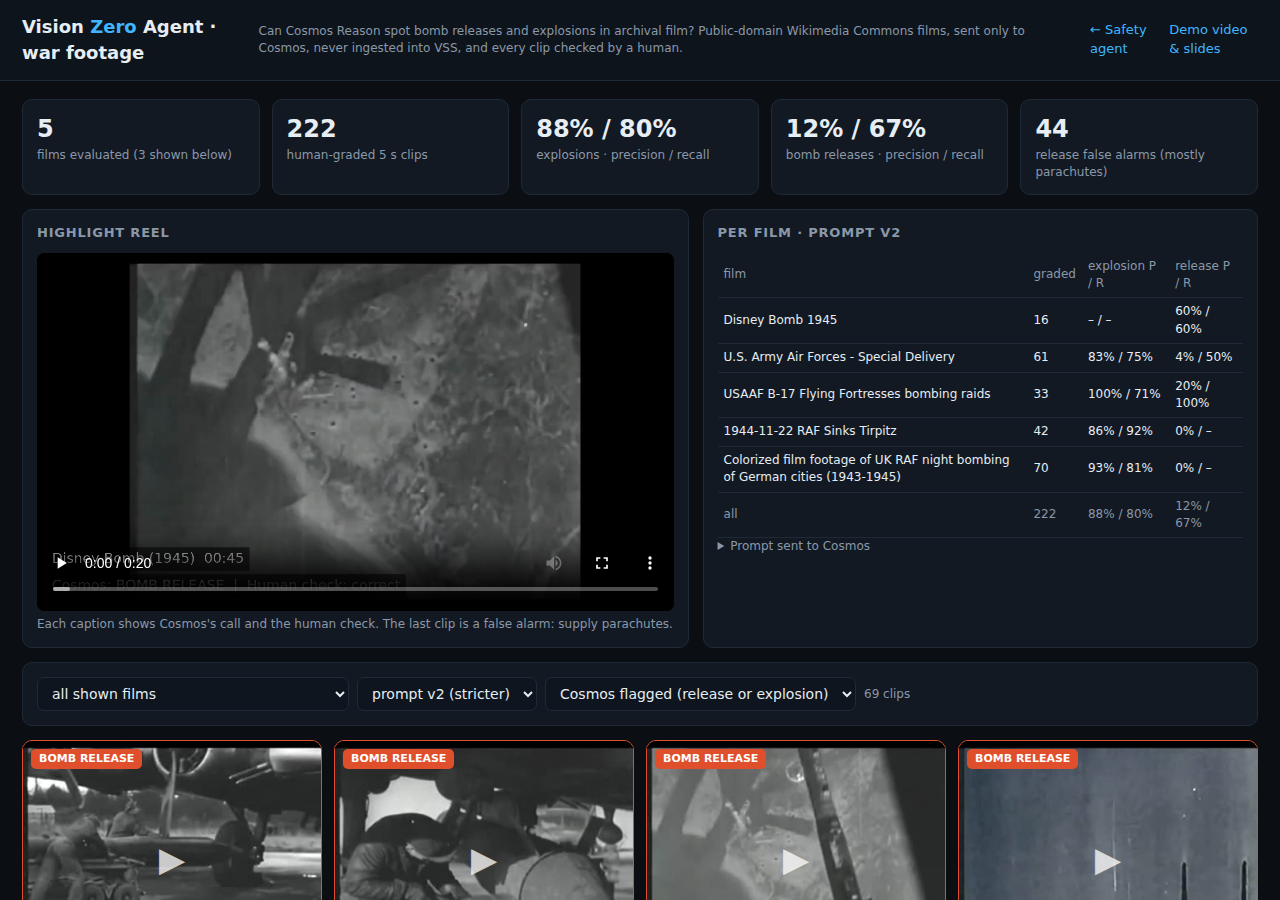
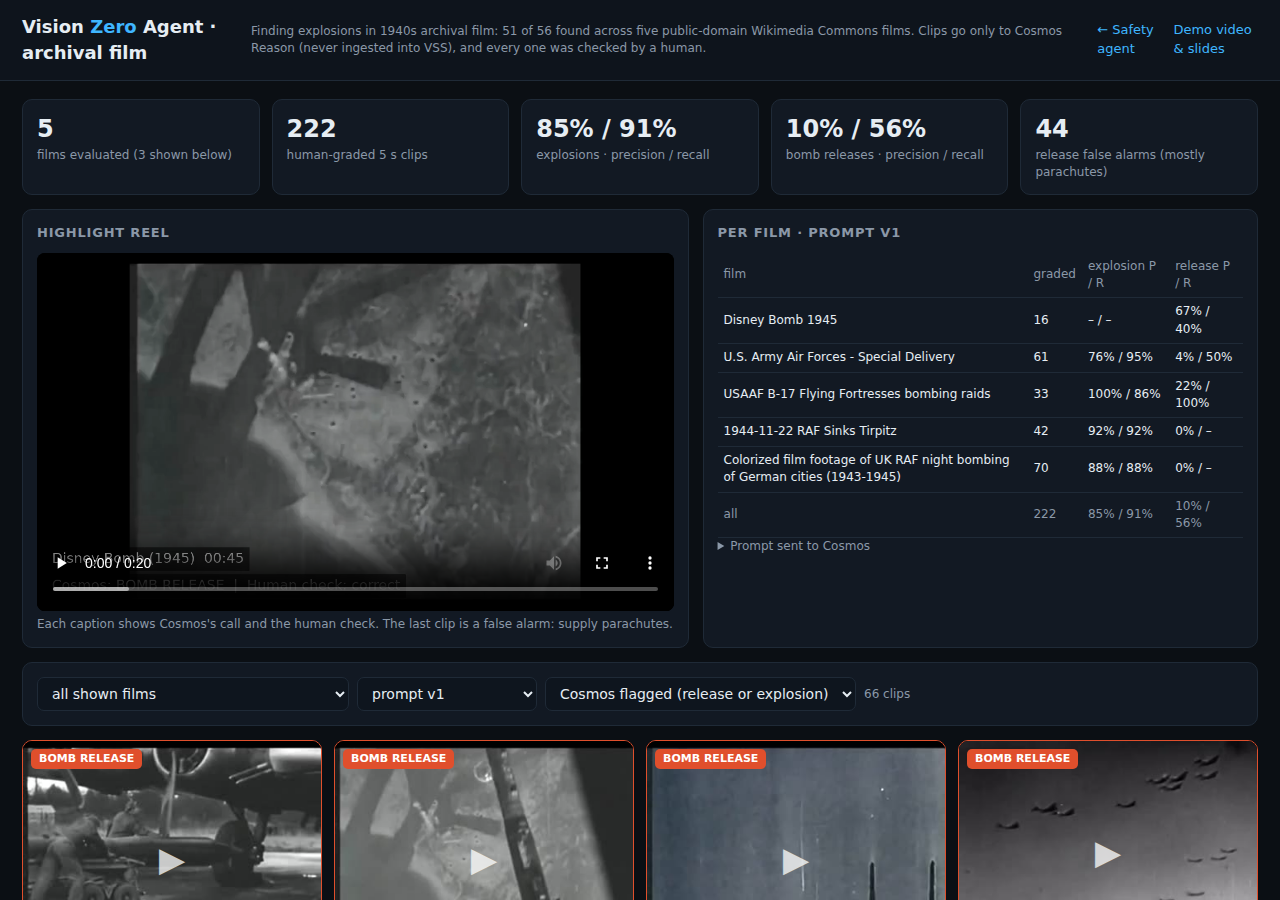
Lead with archival-film explosion detection; re-cut demo narration and scene order

diff --git a/demo/slides/slide.html b/demo/slides/slide.html
@@ -18,12 +18,12 @@
 
 <div class="s" id="01_title">
   <h1>Vision <b>Zero</b> Agent</h1>
-  <p class="lead">Finds safety incidents in hours of camera footage, and checks them on the video itself.</p>
+  <p class="lead">One video agent that finds the moments that matter in hours of footage, from archival film to live street and warehouse cameras, and checks every one on the video itself.</p>
   <div class="tag">VAST Builders Challenge · team-4</div>
 </div>
 
 <div class="s" id="02_problem">
-  <h2>Thousands of hours of video. <b>Nobody watches it.</b></h2>
+  <h2>Same agent, <b>live camera archives on VAST</b></h2>
   <div class="grid">
     <div class="box"><h3>3,537 clips · 13 cameras</h3><p>Indexed on VAST: Toronto dashcam, a New York cyclist's helmet camera, NYC and San Francisco street cameras, a highway, a neighborhood camera.</p></div>
     <div class="box"><h3>2 warehouse floors</h3><p>Forklifts, AGVs and humanoid robots sharing space with workers.</p></div>
@@ -36,19 +36,19 @@
   <h2>Measured, not guessed: <b>W&amp;B Weave + evaluation</b></h2>
   <table>
     <tr><th>Check (human frame review = ground truth)</th><th>Result</th></tr>
+    <tr><td>Archival film (5 films, 222 clips): explosions</td><td class="n">51 of 56 found · 85% precision</td></tr>
     <tr><td>Street clips: Cosmos risk vs. reviewer</td><td class="n">8 / 10 agree</td></tr>
     <tr><td>Warehouse clips (after the zero-humans consistency rule)</td><td class="n">6 / 6 agree</td></tr>
-    <tr><td>Archival war film (5 films, 222 clips): explosions</td><td class="n">85% precision · 91% recall</td></tr>
-    <tr><td>Archival war film: bomb release</td><td class="bad">10% precision (12% with stricter prompt)</td></tr>
+    <tr><td>Archival film: bomb release (known limit)</td><td class="bad">10% precision (12% with stricter prompt)</td></tr>
   </table>
   <p class="note">Every Cosmos Reason and LLM call is traced in Weave. Results logged as run "cosmos-reason-frame-checked-eval" in W&amp;B. Reviewed clips are spot checks, not a random sample.</p>
 </div>
 
 <div class="s" id="10_war">
-  <h2>Stress test: <b>public-domain archival war film</b></h2>
+  <h2>Archival film: <b>51 of 56 explosions found</b></h2>
   <div class="grid">
-    <div class="box"><h3>Explosions: reliable</h3><p>85% precision, 91% recall across B-17 raids, the RAF attack on the Tirpitz, RAF night bombing, the 1946 Bikini test and a 1945 bulletin.</p></div>
-    <div class="box"><h3>Bomb release: fooled</h3><p>10% precision. Parachutes, supply bundles and cargo drops are reported as bombs; a stricter prompt only reached 12%.</p></div>
+    <div class="box"><h3>Explosions: 91% recall · 85% precision</h3><p>222 hand-checked five-second clips from five public-domain films: B-17 raids, the RAF attack on the Tirpitz, RAF night bombing, the 1946 Bikini test and a 1945 bulletin.</p></div>
+    <div class="box"><h3>Known limit: bomb release</h3><p>Parachutes, supply bundles and cargo drops look like bombs at this resolution: 12% precision even with a stricter prompt. We show it, not hide it.</p></div>
   </div>
   <p class="note">Films from Wikimedia Commons, public domain. Sent to Cosmos directly for evaluation; not ingested into the VSS archive.</p>
 </div>
@@ -65,7 +65,7 @@
 
 <div class="s" id="12_close">
   <h1>Vision <b>Zero</b> Agent</h1>
-  <p class="lead">Fewer near misses, found before they become accidents.</p>
+  <p class="lead">Any camera, any archive. Every finding checked on the video, and every number measured.</p>
   <div class="tag">Thank you · team-4</div>
 </div>
 

diff --git a/app/war.html b/app/war.html
@@ -2,7 +2,7 @@
 <html lang="en">
 <head>
 <meta charset="utf-8">
-<title>Vision Zero Agent · war footage</title>
+<title>Vision Zero Agent · archival film</title>
 <link rel="icon" href="data:,">
 <meta name="viewport" content="width=device-width, initial-scale=1">
 <style>
@@ -55,8 +55,8 @@
 </head>
 <body>
 <header>
-  <h1>Vision <span>Zero</span> Agent · war footage</h1>
-  <div class="sub">Can Cosmos Reason spot bomb releases and explosions in archival film? Public-domain Wikimedia Commons films, sent only to Cosmos, never ingested into VSS, and every clip checked by a human.</div>
+  <h1>Vision <span>Zero</span> Agent · archival film</h1>
+  <div class="sub">Finding explosions in 1940s archival film: 51 of 56 found across five public-domain Wikimedia Commons films. Clips go only to Cosmos Reason (never ingested into VSS), and every one was checked by a human.</div>
   <div class="right"><a href="./">← Safety agent</a><a href="files/demo/">Demo video &amp; slides</a></div>
 </header>
 <main>
@@ -82,7 +82,7 @@
   <div class="panel">
     <div class="filters">
       <select id="f_film"><option value="">all shown films</option></select>
-      <select id="f_ver"><option value="v2">prompt v2 (stricter)</option><option value="v1">prompt v1</option></select>
+      <select id="f_ver"><option value="v1">prompt v1</option><option value="v2">prompt v2 (stricter)</option></select>
       <select id="f_show">
         <option value="flagged">Cosmos flagged (release or explosion)</option>
         <option value="">all graded clips</option>

diff --git a/app/index.html b/app/index.html
@@ -72,7 +72,7 @@
 <header>
   <h1>Vision <span>Zero</span> Agent</h1>
   <div class="sub">Cross-camera safety incidents from the VSS archive: people vs. vehicles on city streets, workers vs. robots on the warehouse floor · risk scored on the video by Cosmos Reason · reports by W&amp;B inference</div>
-  <div class="right"><a href="war" style="color:var(--acc)">War footage</a><a href="files/demo/" style="color:var(--acc)">Demo video</a><span id="status">loading…</span><button id="prescore" title="Semantic-search for risky street situations and have Cosmos Reason score those clips from the video">⚡ score risky street clips</button><button id="prescore_wh" title="Have Cosmos Reason score every warehouse clip for robot/AGV/forklift vs. worker proximity">⚙ score warehouse floor</button><button id="refresh" title="Rescan archive">⟳ rescan</button></div>
+  <div class="right"><a href="war" style="color:var(--acc)">Archival film</a><a href="files/demo/" style="color:var(--acc)">Demo video</a><span id="status">loading…</span><button id="prescore" title="Semantic-search for risky street situations and have Cosmos Reason score those clips from the video">⚡ score risky street clips</button><button id="prescore_wh" title="Have Cosmos Reason score every warehouse clip for robot/AGV/forklift vs. worker proximity">⚙ score warehouse floor</button><button id="refresh" title="Rescan archive">⟳ rescan</button></div>
 </header>
 <main>
   <section>

diff --git a/demo/build_video.py b/demo/build_video.py
@@ -19,6 +19,7 @@ CARD_A, CARD_B = (38, 130, 369, 207), (421, 130, 369, 207)
 RULE_A, RULE_B = (38, 108, 369, 207), (421, 108, 369, 207)
 SCENES = {
     "01_title": [("01_title.png", 1, [])],
+    "10_war": [("10_war.png", 0.18, []), ("WAR", 0.82, [])],
     "02_problem": [("02_problem.png", 1, [])],
     "03_overview": [("03_overview.png", 1, [])],
     "04_warehouse": [("04_warehouse_boxes.png", 1, [("wh_forklift_boxes.mp4", *CARD_A), ("wh_police_boxes.mp4", *CARD_B)])],
@@ -28,7 +29,6 @@ SCENES = {
                 ("07_rule_feed.png", 0.55, [("wh_forklift_boxes.mp4", *RULE_A), ("wh_ceiling_boxes.mp4", *RULE_B)])],
     "08_report": [("08_report.png", 0.34, []), ("08_report_b.png", 0.33, []), ("08_report_c.png", 0.33, [])],
     "09_wandb": [("09_wandb.png", 1, [])],
-    "10_war": [("10_war.png", 0.2, []), ("WAR", 0.8, [])],
     "11_stack": [("11_stack.png", 1, [])],
     "12_close": [("12_close.png", 1, [])],
 }
@@ -81,8 +81,9 @@ def write_ass(sid, text, dur, path):
 
 def segment(img, dur, overlays, out, zoom=None):
     if img == "WAR":
-        run(["ffmpeg", "-v", "error", "-y", "-stream_loop", "-1", "-i", WAR, "-t", f"{dur:.3f}",
-             "-vf", "scale=1280:720:force_original_aspect_ratio=decrease,pad=1280:720:(ow-iw)/2:(oh-ih)/2,fps=30,format=yuv420p",
+        run(["ffmpeg", "-v", "error", "-y", "-i", WAR, "-t", f"{dur:.3f}",
+             "-vf", "setpts=PTS-STARTPTS,scale=1280:720:force_original_aspect_ratio=decrease,pad=1280:720:(ow-iw)/2:(oh-ih)/2,"
+                    "fps=30,tpad=stop_mode=clone:stop_duration=30,format=yuv420p",
              "-an", "-c:v", "libx264", "-preset", "veryfast", "-crf", "20", out])
         return
     cmd = ["ffmpeg", "-v", "error", "-y", "-loop", "1", "-framerate", "30", "-t", f"{dur:.3f}", "-i", f"{S}/{img}"]

diff --git a/README.md b/README.md
@@ -1,17 +1,18 @@
 # Vision Zero Agent
 
-**A video safety agent that watches every camera, scores close calls between people and machines, and writes the incident report — on city streets, on warehouse floors, and (as a stress test) in archival war film.**
+**One video agent that finds the moments that matter in hours of footage and checks every finding on the video itself — 51 of 56 explosions found in public-domain archival film, and close calls between people and vehicles or warehouse robots in a live VAST camera archive.**
 
 Built at the VAST Builders Challenge (team-4) on the pre-deployed VSS stack: VAST AI OS for video, vectors and metadata; NVIDIA Cosmos Reason running on CoreWeave GPUs for video understanding; YOLO11 for object boxes; W&B Inference for reports and rule compiling; W&B Weave for tracing and evals; built with Cursor.
 
 **[Demo video (2:37)](https://github.com/jkfnc/vision-zero-agent/releases/download/v1.0-demo/vision_zero_demo.mp4)** · **[Slides (PDF)](https://github.com/jkfnc/vision-zero-agent/releases/download/v1.0-demo/vision_zero_deck.pdf)**
 
-![Warehouse feed with detector boxes](docs/screenshots/04_warehouse_boxes.png)
+![Archival film mode](docs/screenshots/war_ui.png)
 
 ## What it does
 
 | Feature | How |
 |---|---|
+| **Archival film mode** (`/war`) | Five public-domain Wikimedia Commons films (1943–1946), every 5 s clip watched by Cosmos Reason, 222 clips hand-checked. Explosions: 51 of 56 found (91 % recall, 85 % precision). Each clip card shows Cosmos's call, the human check, and a live “Run Cosmos now” button. |
 | **Custom-prompt re-index** | We re-indexed street cameras in VSS with our own Cosmos prompt (below) so every caption carries machine-readable `RISK / EVENT / MIN_GAP_M / VULNERABLE / WHY` lines. These become searchable and parseable across ~3,500 clips. |
 | **Video-verified risk scoring** | For clips that matter, the app sends the actual 5 s MP4 to Cosmos Reason with a domain-specific prompt (street or warehouse) and stores the structured score. 346 clips scored this way. |
 | **Warehouse mode** | AGVs, humanoid robots and forklifts vs. workers: `path_conflict`, `human_in_robot_path`, `contact`, `blocked_aisle`. A consistency rule zeroes risk when Cosmos reports no human near a machine. |
@@ -19,19 +20,18 @@ Built at the VAST Builders Challenge (team-4) on the pre-deployed VSS stack: VAS
 | **Human review loop** | Confirm / dismiss each alert with a note; confirmed incidents rank first and override the model in reports. |
 | **Natural-language watch rules** | “Alert when a forklift comes within 1 m of a worker” → JSON filter compiled by `gpt-oss-120b` on W&B Inference → live alert feed. |
 | **Incident reports** | One click: worst incidents with clip citations, cross-camera patterns, recommended actions. |
-| **Archival war footage test** (`/war`) | Can the same agent find bomb releases and explosions? 5 public-domain Wikimedia Commons films, 222 human-graded clips, a live “Run Cosmos now” button per clip. |
 | **Observability** | Every Cosmos and LLM call is a `weave.op`; eval tables (model vs. human verdict) are logged to W&B. |
 
 ## Results
 
 | Domain | Measure | Result |
 |---|---|---|
+| Archival film: explosions | 222 hand-checked clips, 56 real explosions (prompt v1) | **51 of 56 found: 91 % recall, 85 % precision** (v2: 88 % precision, 80 % recall) |
 | Street (Vision Zero) | agreement with human review (risk ≥ 2 vs. verdict) | 8 / 10 |
 | Warehouse | agreement with human review | 5 / 6 raw → 6 / 6 after the no-human consistency rule |
-| War film: explosions | precision / recall over 222 graded clips (prompt v2) | 88 % / 80 % (v1: 85 % / 91 %) |
-| War film: bomb releases | precision / recall (prompt v2) | 12 % / 67 % — Cosmos confuses parachutes, cargo drops and flak with bombs |
+| Archival film: bomb releases (known limit) | 9 real releases (prompt v2) | 12 % precision / 67 % recall — Cosmos confuses parachutes, cargo drops and flak with bombs |
 
-The war test is an honest negative result for one task: a 5 s clip at low resolution is often not enough to tell a bomb from a parachute, and a stricter prompt barely helped (precision 4.0 % → 4.2 % on the hardest film). Explosions are reliable.
+Explosions are the best-supported number we have (56 real events across 5 films). Bomb releases are an honest negative result: a 5 s clip at low resolution is often not enough to tell a bomb from a parachute, and a stricter prompt barely helped (precision 4.0 % → 4.2 % on the hardest film).
 
 ## Custom prompts
 
